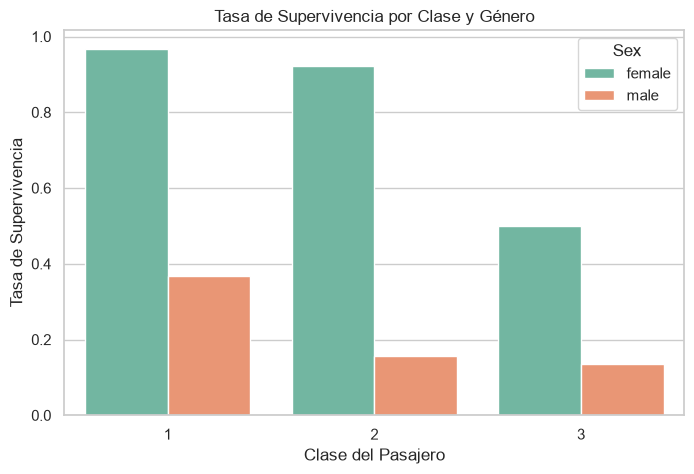
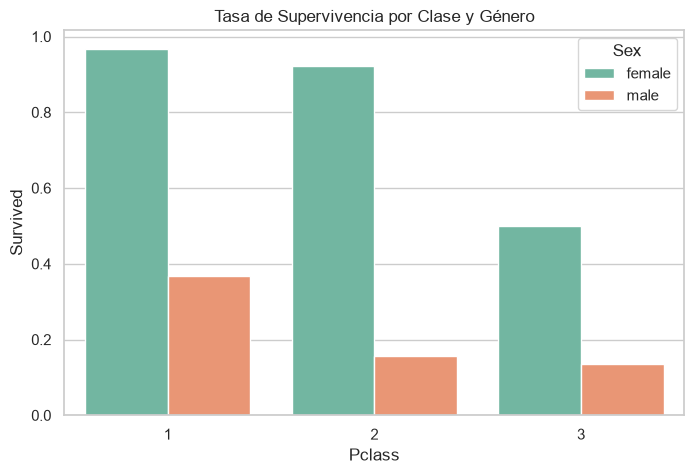
Corrige advertencias en script de analisis y actualiza graficos

Changed region(s): [[0.0, 0.2954, 0.0303, 0.6498], [0.4236, 0.9451, 0.6354, 0.9747]]

diff --git a/src/analysis.py b/src/analysis.py
@@ -3,90 +3,38 @@ import pandas as pd
 import matplotlib.pyplot as plt
 import seaborn as sns
 
-# 1. Configuración de rutas de archivos
 DATA_PATH = os.path.join("data", "train.csv")
 OUTPUT_DIR = "outputs"
-
 os.makedirs(OUTPUT_DIR, exist_ok=True)
 
-# 2. Carga y exploración inicial
-print("=== EXPLORACIÓN INICIAL DE DATOS ===")
 df = pd.read_csv(DATA_PATH)
-
-print(f"Número de pasajeros (filas): {df.shape[0]}")
-print(f"Número de variables (columnas): {df.shape[1]}")
-print("\nTipos de datos y estructura:")
-print(df.info())
-
-print("\nValores faltantes por columna:")
-print(df.isnull().sum())
-
-print(f"\nRegistros duplicados: {df.duplicated().sum()}")
-
-# 3. Limpieza y Tratamiento de Valores Faltantes
 df['Age'] = df.groupby('Pclass')['Age'].transform(lambda x: x.fillna(x.median()))
 df['Embarked'] = df['Embarked'].fillna(df['Embarked'].mode()[0])
 df.drop(columns=['Cabin'], inplace=True)
 
-# 4. Creación de Nuevas Variables
 df['FamilySize'] = df['SibSp'] + df['Parch'] + 1
-
-def categorizar_edad(edad):
-    if edad < 12:
-        return 'Niño'
-    elif edad < 18:
-        return 'Joven'
-    elif edad < 60:
-        return 'Adulto'
-    else:
-        return 'Adulto mayor'
-
-df['AgeGroup'] = df['Age'].apply(categorizar_edad)
+df['AgeGroup'] = df['Age'].apply(lambda e: 'Niño' if e<12 else ('Joven' if e<18 else ('Adulto' if e<60 else 'Adulto mayor')))
 df['IsAlone'] = (df['FamilySize'] == 1).astype(int)
 
-# 5. Análisis de Preguntas Clave
-print("\n=== RESULTADOS DEL ANÁLISIS ===")
-print(f"1. Porcentaje general de supervivencia: {df['Survived'].mean() * 100:.2f}%")
-
-print("\n2. Tasa de supervivencia por género:")
-print(df.groupby('Sex')['Survived'].mean() * 100)
-
-print("\n3. Tasa de supervivencia por clase (Pclass):")
-print(df.groupby('Pclass')['Survived'].mean() * 100)
-
-print("\n4. Tasa de supervivencia según compañía (Solo vs Acompañado):")
-print(df.groupby('IsAlone')['Survived'].mean() * 100)
-
-# 6. Generación y Guardado de Visualizaciones
 sns.set_theme(style="whitegrid")
 
-# Gráfico 1
 plt.figure(figsize=(8, 5))
-sns.barplot(data=df, x='Pclass', y='Survived', hue='Sex', ci=None, palette='Set2')
+sns.barplot(data=df, x='Pclass', y='Survived', hue='Sex', errorbar=None, palette='Set2')
 plt.title('Tasa de Supervivencia por Clase y Género')
-plt.xlabel('Clase del Pasajero')
-plt.ylabel('Tasa de Supervivencia')
 plt.savefig(os.path.join(OUTPUT_DIR, 'supervivencia_clase_genero.png'), bbox_inches='tight')
 plt.close()
 
-# Gráfico 2
 plt.figure(figsize=(8, 5))
-order_edad = ['Niño', 'Joven', 'Adulto', 'Adulto mayor']
-sns.barplot(data=df, x='AgeGroup', y='Survived', order=order_edad, palette='mako', ci=None)
+sns.barplot(data=df, x='AgeGroup', y='Survived', hue='AgeGroup', order=['Niño', 'Joven', 'Adulto', 'Adulto mayor'], palette='mako', errorbar=None, legend=False)
 plt.title('Tasa de Supervivencia por Grupo de Edad')
-plt.xlabel('Grupo de Edad')
-plt.ylabel('Tasa de Supervivencia')
 plt.savefig(os.path.join(OUTPUT_DIR, 'supervivencia_grupo_edad.png'), bbox_inches='tight')
 plt.close()
 
-# Gráfico 3
 plt.figure(figsize=(8, 5))
-sns.boxplot(data=df, x='Survived', y='Fare', palette='Set1', showfliers=False)
+sns.boxplot(data=df, x='Survived', y='Fare', hue='Survived', palette='Set1', showfliers=False, legend=False)
 plt.title('Distribución de Tarifas Pagadas según Supervivencia')
 plt.xticks([0, 1], ['No Sobrevivió', 'Sobrevivió'])
-plt.xlabel('Estado de Supervivencia')
-plt.ylabel('Tarifa Pagada')
 plt.savefig(os.path.join(OUTPUT_DIR, 'tarifa_vs_supervivencia.png'), bbox_inches='tight')
 plt.close()
 
-print(f"\nAnálisis finalizado con éxito. Gráficos guardados en la carpeta '{OUTPUT_DIR}'.")
+print("Análisis completado exitosamente.")
